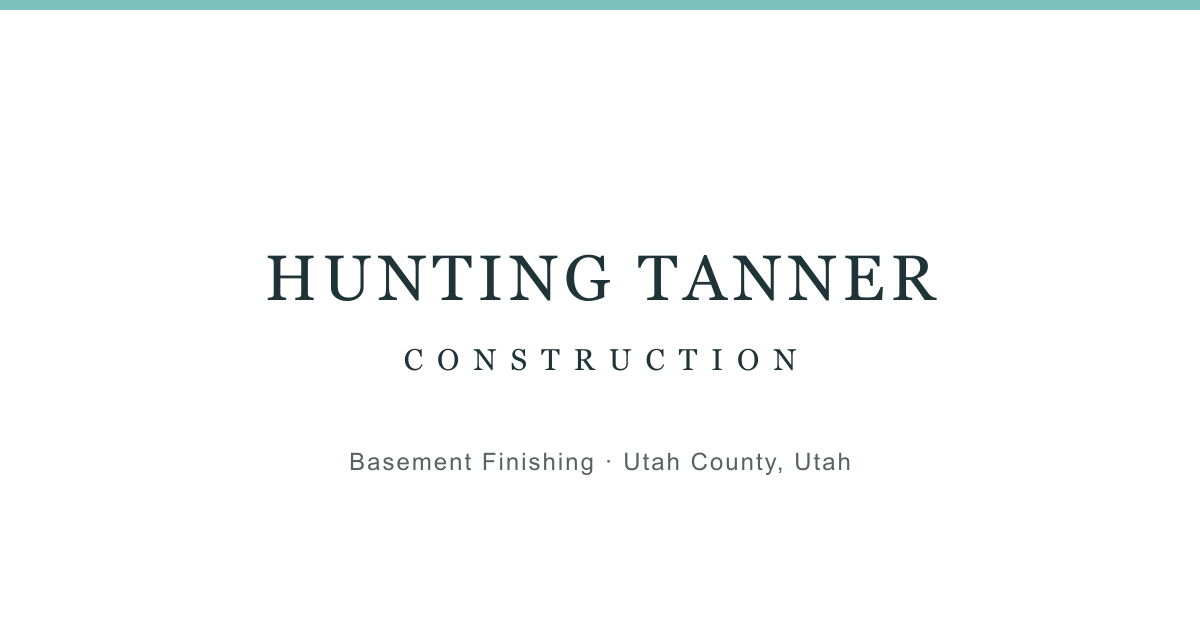
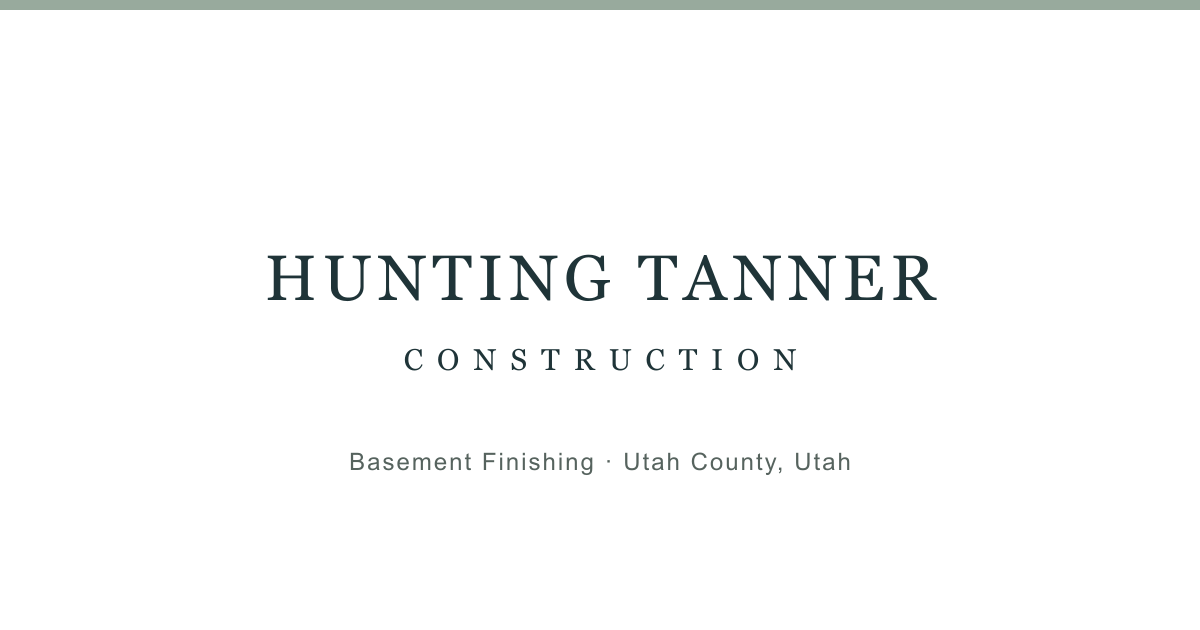
Switch accent color to Eucalyptus #98AA9D
Buttons, the sticky mobile CTA, decorative borders, and on-dark accents
now use Eucalyptus. Because #98AA9D is light, primary buttons carry dark
marine text (5.34:1) instead of white, which would have failed at 2.45:1.
Text on white (links, eyebrows, hover states, the FAQ icon) uses a
deepened eucalyptus (#4F6455, 6.39:1), since the light sage is not
legible at text sizes. Section tints, favicons, OG image, and the
endpoint fallback page follow.

Changed region(s): [[0.0, 0.0, 1.0, 0.0302]]

diff --git a/src/styles/global.css b/src/styles/global.css
@@ -12,16 +12,23 @@
   /* ---- Color tokens ---- */
   --color-bg: #ffffff;            /* white page */
   --color-surface: #ffffff;       /* cards, forms */
-  --color-surface-alt: #f2f8f7;   /* pale sea glass — alternating sections */
+  --color-surface-alt: #f4f7f3;   /* pale sage — alternating sections */
   --color-ink: #1f3438;           /* deep marine — primary text */
   --color-ink-soft: #2f4a4e;      /* softened marine (wordmark) */
   --color-muted: #55686b;         /* secondary text — 5.7:1 on white */
-  --color-line: #dbe5e4;          /* cool hairline borders */
-  --color-line-strong: #c6d6d4;   /* card edges on white */
-  --color-accent: #17696f;        /* coastal teal — CTAs, links (5.8:1) */
-  --color-accent-hover: #0f5257;
-  --color-accent-soft: #e4f1f0;   /* pale teal tint backgrounds */
-  --color-accent-bright: #7cc0bd; /* seafoam — decorative + on-dark (6.5:1) */
+  --color-line: #dde5e0;          /* soft hairline borders */
+  --color-line-strong: #c8d4cd;   /* card edges on white */
+  /* Eucalyptus accent family. #98AA9D is light, so it fills shapes
+     (buttons, bars, borders) and always carries DARK text on top.
+     Text sitting on white uses the deepened variants below, which the
+     light sage cannot do legibly. */
+  --color-accent: #98aa9d;        /* Eucalyptus — button + fill color */
+  --color-accent-hover: #879b8d;  /* button hover fill */
+  --color-accent-ink: #1f3438;    /* text ON eucalyptus fills (5.6:1) */
+  --color-accent-text: #4f6455;   /* deep eucalyptus — links on white (6.4:1) */
+  --color-accent-text-hover: #3c4e42;
+  --color-accent-soft: #eaefe9;   /* pale sage tint backgrounds */
+  --color-accent-bright: #98aa9d; /* Eucalyptus on dark sections (5.6:1) */
   --color-dark: #1f3438;          /* deep marine — dark sections */
   --color-dark-text: #e9f1f0;
   --color-dark-muted: #a9c3c2;
@@ -146,12 +153,12 @@ p:last-child {
 }
 
 a {
-  color: var(--color-accent);
+  color: var(--color-accent-text);
   text-decoration-thickness: 1px;
   text-underline-offset: 2px;
 }
 a:hover {
-  color: var(--color-accent-hover);
+  color: var(--color-accent-text-hover);
 }
 
 img {
@@ -230,7 +237,7 @@ strong {
   font-weight: 700;
   letter-spacing: 0.14em;
   text-transform: uppercase;
-  color: var(--color-accent);
+  color: var(--color-accent-text);
   margin-bottom: var(--space-3);
 }
 .section--dark .eyebrow {
@@ -301,13 +308,15 @@ strong {
     color 0.15s ease;
 }
 
+/* Eucalyptus is light, so primary buttons carry dark text (5.6:1) rather
+   than white, which would only reach 2.45:1 and fail readability. */
 .btn--primary {
   background: var(--color-accent);
-  color: #fff;
+  color: var(--color-accent-ink);
 }
 .btn--primary:hover {
   background: var(--color-accent-hover);
-  color: #fff;
+  color: var(--color-accent-ink);
 }
 
 .btn--secondary {

diff --git a/src/pages/api/contact.ts b/src/pages/api/contact.ts
@@ -117,12 +117,12 @@ function errorPage(): string {
     font-family:-apple-system,BlinkMacSystemFont,"Segoe UI",Roboto,Arial,sans-serif;
     line-height:1.65; display:flex; align-items:center; justify-content:center;
     min-height:100vh; padding:1.5rem; }
-  .card { max-width:34rem; background:#fff; border:1px solid #c6d6d4;
+  .card { max-width:34rem; background:#fff; border:1px solid #c8d4cd;
     border-radius:16px; padding:2rem; box-shadow:0 10px 34px -14px rgb(31 52 56 / .28); }
   h1 { font-family:Georgia,serif; font-size:1.6rem; margin:0 0 1rem; }
-  a.btn { display:inline-block; background:#17696f; color:#fff; text-decoration:none;
+  a.btn { display:inline-block; background:#98aa9d; color:#1f3438; text-decoration:none;
     font-weight:600; padding:.75rem 1.5rem; border-radius:10px; margin-top:.5rem; }
-  a.plain { color:#17696f; }
+  a.plain { color:#4f6455; }
   p { margin:0 0 1rem; }
 </style>
 </head>
